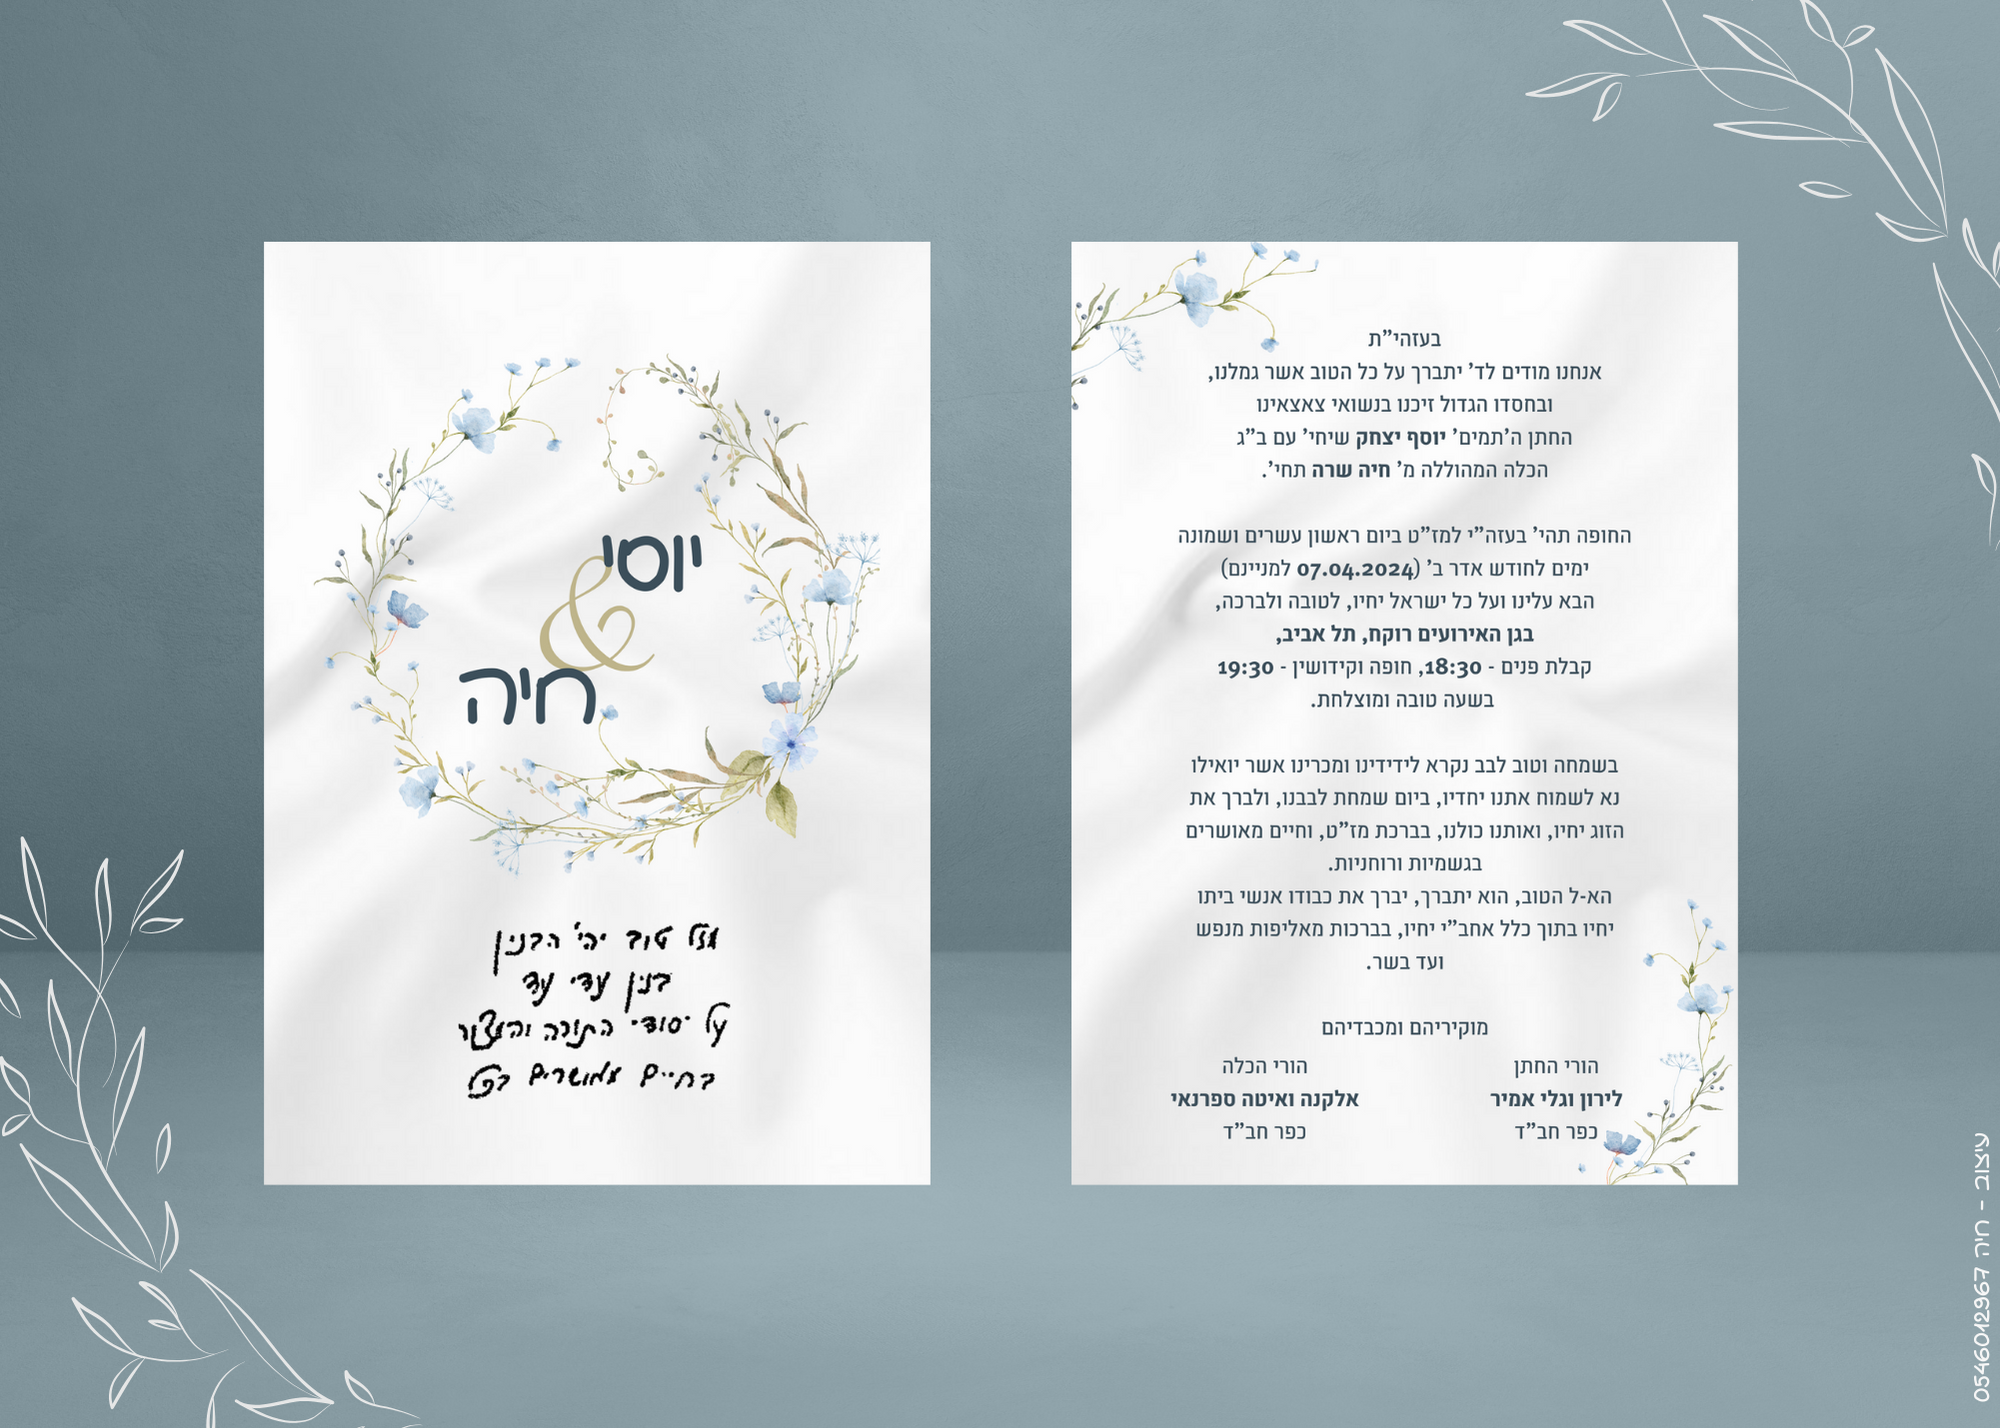
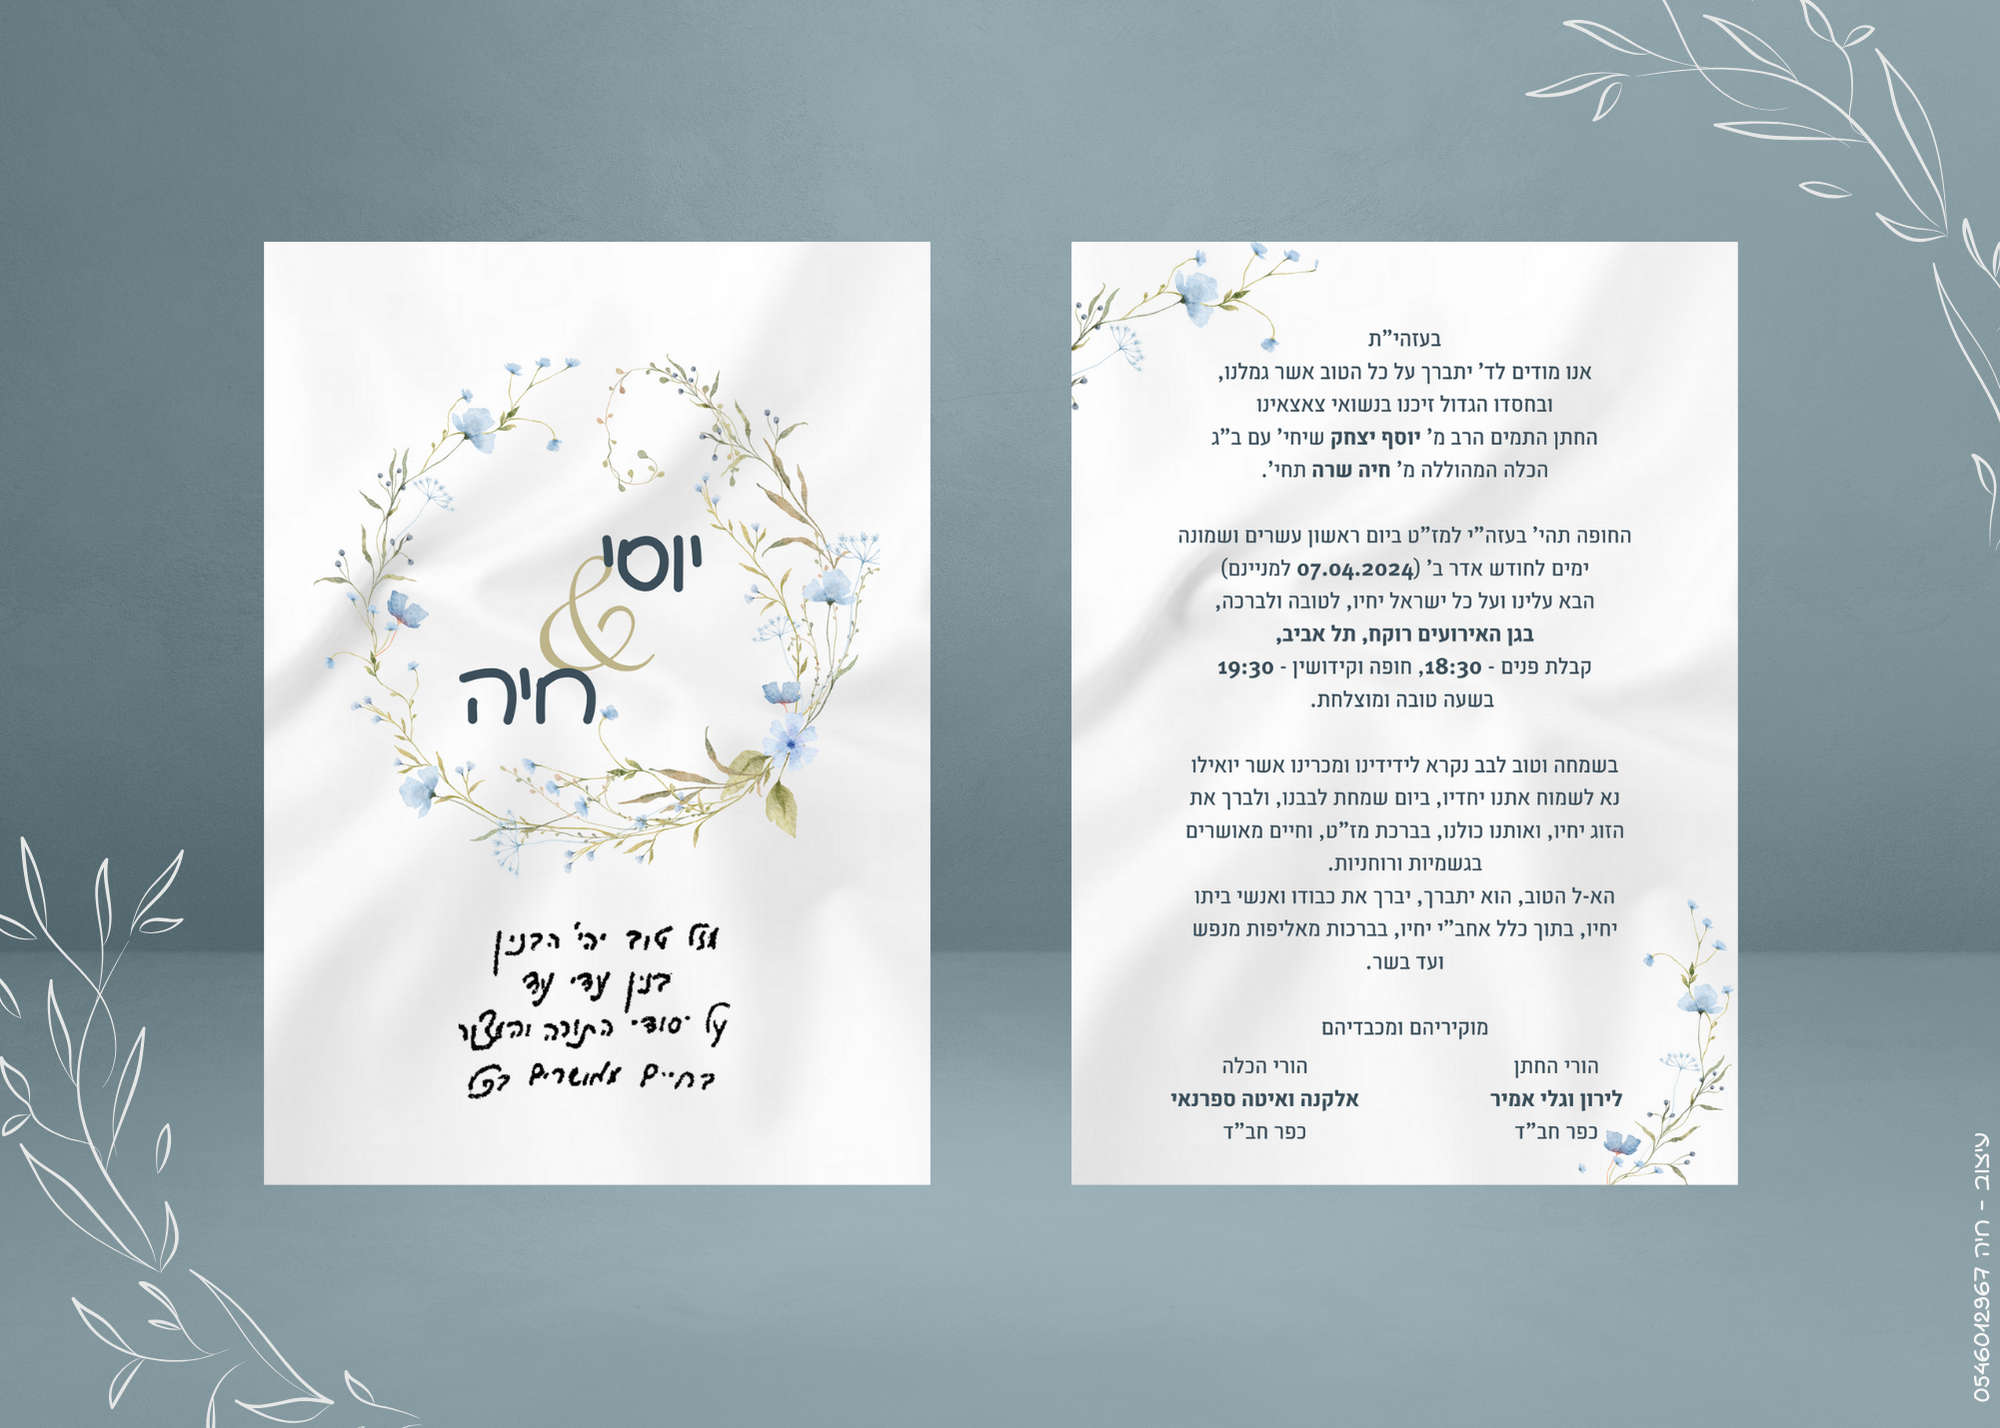
1.2

Changed region(s): [[0.589, 0.6162, 0.806, 0.6779], [0.62, 0.2465, 0.806, 0.3081]]

diff --git a/src/components/Form.tsx b/src/components/Form.tsx
@@ -138,12 +138,15 @@ export default function Form() {
         </div>
 
         <label>
-          <div className="text-lg mt-4">
+          <div className="text-lg mt-6">
             <span>הוסף את שמות בני המשפחה שבאים</span>
           </div>
-          <p>אנא וודא שכל אדם נרשם פעם אחת בלבד</p>
 
-          <div className="mt-2 mb-2">* אין צורך לרשום ילדים מגיל שש ומטה</div>
+          <div className=" mb-2 text-sm">
+            <p className="text-sm">* אנא וודא שכל אדם נרשם פעם אחת בלבד</p>
+            <p>* אין צורך לרשום ילדים מגיל שש ומטה</p>
+          </div>
+
           <div className="flex items-end gap-2 mb-4">
             <div className="flex flex-col gap-1">
               {fields.map((field, index) => (
@@ -200,7 +203,7 @@ export default function Form() {
                 className="radio"
                 name="coming"
               />
-              <span className="label-text">מגיעים</span>
+              <span className="label-text mr-2">מגיעים</span>
             </label>
           </div>
           <div className="form-control">
@@ -212,13 +215,13 @@ export default function Form() {
                 className="radio"
                 name="coming"
               />
-              <span className="label-text">לא מגיעים</span>
+              <span className="label-text mr-2">לא מגיעים</span>
             </label>
           </div>
         </div>
         {errors.coming && (
           <div
-            className="px-4 py-1  mb-4 text-sm text-red-800 rounded-lg bg-red-50 dark:bg-gray-800 dark:text-red-400"
+            className="px-4 py-1 mb-4 text-sm text-red-800 rounded-lg bg-red-50 dark:bg-gray-800 dark:text-red-400"
             role="alert"
           >
             <span className="font-medium">
@@ -231,12 +234,13 @@ export default function Form() {
           <p>בקשת מנה מיוחדת</p>
         </div>
 
-        <div className="mb-8">
+        <div className="mb-6 flex justify-between gap-3">
           <label>
             <div>
               <span>ללא גלוטן</span>
             </div>
             <input
+              className="input input-bordered input-sm w-44"
               type="number"
               placeholder="0"
               {...register("gluten_free", {
@@ -252,6 +256,7 @@ export default function Form() {
               <span>טבעוני</span>
             </div>
             <input
+              className="input input-bordered input-sm w-44"
               type="number"
               placeholder="0"
               {...register("vegan", {
@@ -263,16 +268,18 @@ export default function Form() {
           </label>
         </div>
 
-        <div className="card-actions justify-right mb-4">
+        <div className="card-actions flex justify-center mb-8">
           <button
-            className="btn btn-md bg-[#3c4f5b] text-white hover:bg-[#bfb58b]"
+            className="btn btn-sm px-8 bg-[#3c4f5b] text-white hover:bg-[#bfb58b]"
             type="submit"
           >
             אישור
           </button>
         </div>
 
-        <div>במקרה של שינוי אנא עדכנו את איטה ספרנאי או גלי אמיר🙏</div>
+        <div className="text-sm text-center">
+          במקרה של שינוי אנא עדכנו את איטה ספרנאי או גלי אמיר🙏
+        </div>
       </form>
     </div>
   );

diff --git a/src/pages/Admin.tsx b/src/pages/Admin.tsx
@@ -2,6 +2,7 @@ import { useEffect, useMemo, useState } from "react";
 
 import { getGuests } from "../DB/api";
 import { Guest } from "../types";
+import supabase from "../DB/supabase";
 
 export default function Admin() {
   const [guestsArray, setGuests] = useState<Guest[]>([]);
@@ -9,6 +10,23 @@ export default function Admin() {
 
   useEffect(() => {
     allGuests();
+  }, []);
+
+  useEffect(() => {
+    const sub = supabase
+      .channel("custom-update-channel")
+      .on(
+        "postgres_changes",
+        { event: "INSERT", schema: "public", table: "guests" },
+        (payload) => {
+          setGuests((prev) => [...prev, payload.new as Guest]);
+        }
+      )
+      .subscribe();
+
+    return () => {
+      sub.unsubscribe();
+    };
   }, []);
 
   async function allGuests() {

diff --git a/src/components/Card.tsx b/src/components/Card.tsx
@@ -9,12 +9,10 @@ export default function Card() {
         אנו שמחים ונרגשים להזמין אתכם לחגוג עמנו את יום נישואינו
       </p>
 
-      <div className="mb-4 text-lg">
-        <p>07.04.2024</p>
-      </div>
-
       <div className="mb-4">
-        <p className="text-3xl">יום ראשון - כ"ח אדר ב' התשפ"ד</p>
+        <p className="text-2xl">יום ראשון</p>
+        <p className="text-3xl font-bold">כ"ח אדר ב' התשפ"ד</p>
+        <p className="text-xl">- 07.04.2024 -</p>
       </div>
 
       <div className="mb-4 text-lg">

diff --git a/src/DB/api.ts b/src/DB/api.ts
@@ -19,15 +19,3 @@ export async function createGuest(guest: Guest) {
 
   return error;
 }
-
-// use to get notification when new guest register
-// const guests = supabase
-//   .channel("custom-update-channel")
-//   .on(
-//     "postgres_changes",
-//     { event: "UPDATE", schema: "public", table: "guests" },
-//     (payload) => {
-//       console.log("Change received!", payload);
-//     }
-//   )
-//   .subscribe();

diff --git a/index.html b/index.html
@@ -3,7 +3,7 @@
 
 <head>
   <meta charset="UTF-8" />
-  <link rel="icon" href="/yosiHaya.png" />
+  <link rel="icon" href="/YH.png" />
   <meta name="viewport" content="width=device-width, initial-scale=1.0" />
   <title>יוסי & חיה החתונה</title>
 </head>
